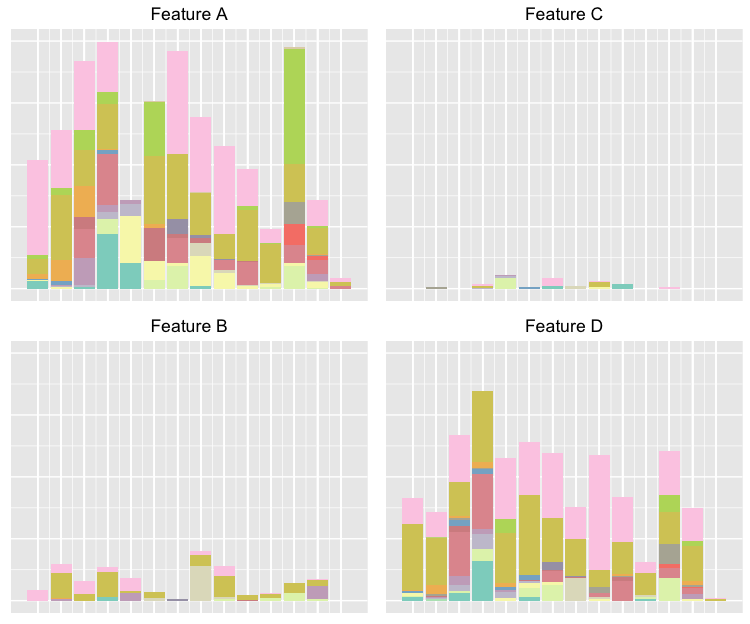
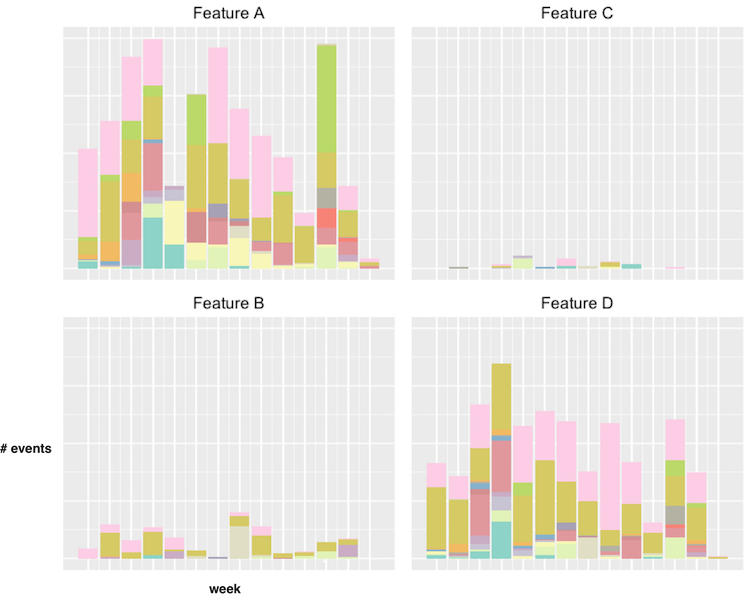
commit message

diff --git a/index.html b/index.html
@@ -113,7 +113,7 @@
 	        	                <i class="fa fa-search-plus fa-3x"></i>
 	        	            </div>
 	        	        </div>
-	        	        <img src="/images/portfolio/feature-useage.png" class="img-responsive" alt="">
+	        	        <img src="/images/portfolio/test.png" class="img-responsive" alt="">
 	        	    </a>
 	        	</div>
          	
@@ -125,7 +125,7 @@
 	        	                <i class="fa fa-search-plus fa-3x"></i>
 	        	            </div>
 	        	        </div>
-	        	        <img src="/images/portfolio/feature-useage.png" class="img-responsive" alt="">
+	        	        <img src="/images/portfolio/wave1.png" class="img-responsive" alt="">
 	        	    </a>
 	        	</div>
          	
@@ -137,7 +137,7 @@
 	        	                <i class="fa fa-search-plus fa-3x"></i>
 	        	            </div>
 	        	        </div>
-	        	        <img src="/images/portfolio/header-bg.png" class="img-responsive" alt="">
+	        	        <img src="/images/portfolio/feature-usage-hero.png" class="img-responsive" alt="">
 	        	    </a>
 	        	</div>
          	
@@ -149,7 +149,7 @@
 	        	                <i class="fa fa-search-plus fa-3x"></i>
 	        	            </div>
 	        	        </div>
-	        	        <img src="/images/portfolio/feature-usage-hero.png" class="img-responsive" alt="">
+	        	        <img src="/images/portfolio/wave1.png" class="img-responsive" alt="">
 	        	    </a>
 	        	</div>
             
@@ -329,7 +329,7 @@
 			                    <div class="modal-body">
 			                        <h2>Rapid Recruiting</h2>
 			                        <hr class="star-primary">
-			                        <img src="/images/portfolio/feature-useage.png" class="img-responsive img-centered" alt="">
+			                        <img src="/images/portfolio/test.png" class="img-responsive img-centered" alt="">
 			                        <p></p>
 			                        <ul class="list-inline item-details">
 			                            <li>Client:
@@ -366,48 +366,9 @@
 			            <div class="row">
 			                <div class="col-lg-8 col-lg-offset-2">
 			                    <div class="modal-body">
-			                        <h2>test</h2>
-			                        <hr class="star-primary">
-			                        <img src="/images/portfolio/feature-useage.png" class="img-responsive img-centered" alt="">
-			                        <p></p>
-			                        <ul class="list-inline item-details">
-			                            <li>Client:
-			                                <strong><a href="https://www.wrap.co/"></a>
-			                                </strong>
-			                            </li>
-			                            <!-- 
-<li>Date:
-			                                <strong><a href="http://startbootstrap.com">2016-11-15 00:00:00-08:00</a>
-			                                </strong>
-			                            </li>
- -->
-			                            <li>Service:
-			                                <strong><a href="http://startbootstrap.com">quantitative UX research</a>
-			                                </strong>
-			                            </li>
-			                        </ul>
-			                        <button type="button" class="btn btn-default" data-dismiss="modal"><i class="fa fa-times"></i> Close</button>
-			                    </div>
-			                </div>
-			            </div>
-			        </div>
-			    </div>
-			</div>
-			<div class="portfolio-modal modal fade" id="portfolioModal3" tabindex="-1" role="dialog" aria-hidden="true">
-			    <div class="modal-content">
-			        <div class="close-modal" data-dismiss="modal">
-			            <div class="lr">
-			                <div class="rl">
-			                </div>
-			            </div>
-			        </div>
-			        <div class="container">
-			            <div class="row">
-			                <div class="col-lg-8 col-lg-offset-2">
-			                    <div class="modal-body">
 			                        <h2>Rapid recruiting for iterative studies</h2>
 			                        <hr class="star-primary">
-			                        <img src="/images/portfolio/header-bg.png" class="img-responsive img-centered" alt="">
+			                        <img src="/images/portfolio/wave1.png" class="img-responsive img-centered" alt="">
 			                        <p><p>What was the business problem? What was the approach? What were the results? What was the impact?</p>
 <h2>Rapid Recruiting for Iterative Studies</h2></p>
 			                        <ul class="list-inline item-details">
@@ -433,7 +394,7 @@
 			        </div>
 			    </div>
 			</div>
-			<div class="portfolio-modal modal fade" id="portfolioModal4" tabindex="-1" role="dialog" aria-hidden="true">
+			<div class="portfolio-modal modal fade" id="portfolioModal3" tabindex="-1" role="dialog" aria-hidden="true">
 			    <div class="modal-content">
 			        <div class="close-modal" data-dismiss="modal">
 			            <div class="lr">
@@ -451,6 +412,10 @@
 			                        <p><p>&nbsp;
 &nbsp;
 <div style="text-align:left"> </p>
+<h3>Summary</h3>
+<ul>
+<li><em>What was the business challenge?</em> - The product team was unable to make informed decisions quickly as to which features should be prioirtized for the roadmap and future iterations.</li>
+</ul>
 <h3>Problem</h3>
 <p>Product teams need to build products that are valuable to users. </p>
 <blockquote>
@@ -521,11 +486,11 @@ data <span class="o">&lt;-</span> GET<span class="p">(</span>getURL<span class="
 </pre></div>
 
 
+<p>&nbsp;</p>
 <h4><em>Visualize</em></h4>
-<p>The data was then visualized using <em>ggplot2</em>, and displayed in a dashboard. 
-<div style="text-align:center"> 
-<img alt="alt text" src="images/portfolio/feature-usage-3.png" />
-</div></p>
+<p>The data was then visualized using <em>ggplot2</em>, and displayed in a dashboard.</p>
+<p>&nbsp;</p>
+<p><img alt="alt text" src="images/portfolio/feature-usage-3.png" /></p>
 <p>Right away, you can see that <em>Feautes A</em> and <em>D</em> see quite a bit more usage than <em>Featues B</em> and <em>C</em>. Visualizations like this can bring a lot of insight to a product team. For example, Product Managers at Wrap Media no longer had to guess which features in the product were being used more than others. </p>
 <blockquote>
 <p><strong>Product acted on these insights to priortitize roadmap planning and product iterations.</strong></p>
@@ -544,6 +509,89 @@ data <span class="o">&lt;-</span> GET<span class="p">(</span>getURL<span class="
  -->
 			                            <li>Service:
 			                                <strong><a href="http://startbootstrap.com">quantitative UX research</a>
+			                                </strong>
+			                            </li>
+			                        </ul>
+			                        <button type="button" class="btn btn-default" data-dismiss="modal"><i class="fa fa-times"></i> Close</button>
+			                    </div>
+			                </div>
+			            </div>
+			        </div>
+			    </div>
+			</div>
+			<div class="portfolio-modal modal fade" id="portfolioModal4" tabindex="-1" role="dialog" aria-hidden="true">
+			    <div class="modal-content">
+			        <div class="close-modal" data-dismiss="modal">
+			            <div class="lr">
+			                <div class="rl">
+			                </div>
+			            </div>
+			        </div>
+			        <div class="container">
+			            <div class="row">
+			                <div class="col-lg-8 col-lg-offset-2">
+			                    <div class="modal-body">
+			                        <h2>Why do consumers bounce?</h2>
+			                        <hr class="star-primary">
+			                        <img src="/images/portfolio/wave1.png" class="img-responsive img-centered" alt="">
+			                        <p><p>&nbsp;
+&nbsp;
+<div style="text-align:left"> </p>
+<h3>Problem</h3>
+<p>The product team at my last startup didn't have the time nor budget to conduct large, all-encompassing user research. Rather, they needed focused insights to fuel weekly product decisions. The need for these kind of insights was evident: we often times spent way to long arguing about what users needed and whether they would use certain features, consistently going over the set meeting time.</p>
+<p>One particular topic was especially important: The high bounce rate of our consumer product, the <a href="www.example-wrap.com">Wrap Viewer</a>. We were tracking bounce rate through our analytics team, but didn't know why this could be the case. Several camps, supporting different hypothesis had formed as to why this could be. I set out to conduct qualitative studies to get to the root of the problem. </p>
+<p>--&gt;add outcome</p>
+<p>&nbsp;</p>
+<h3>Preparation</h3>
+<p>In my situation, the ingredients for focused, iterative studies that deliver clear and actioable insights at a rapid pace were as follows:</p>
+<ul>
+<li>
+<p><em>Focused problem</em> - to avoid boiling the ocean and drowning in analysis paralysis that lead to broad, too-general read-outs it was important to get together with the team and clearly define the problem and questions that we hoped to address with the studies.</p>
+</li>
+<li>
+<p><em>Clear hypotheses</em> - it turned out that the team already had some great guesses as to why users may be bouncing. I made sure to include them as hypotheses in our research plan to cover what people were dying to validate.</p>
+</li>
+<li>
+<p><em>Know what you don't know</em> - it was important to tell the team what could not easily be answered through user research sessions. This helped set expectations and opened up an opportunity for future, cross-disciplinary research.</p>
+</li>
+<li>
+<p><em>Plan synthesis ahead</em> - since the team needed to get answers fast, it was important for me to organize synthesis ahead of time. This allowed me to hit the ground running as soon as I had conducted my sessions.</p>
+</li>
+</ul>
+<p>It was Wednesday during our weekly product meeting that that I convinced my team that user insights can help make a decision. I had 1 week until next Wednesday to present my findings.</p>
+<h3>Action</h3>
+<h4>Thursday - Day 1</h4>
+<p>Day 1 was all about <em>focusing on the right problem</em> and <em>forming clear hypothesis</em>. On Wednesday afternoon I scrambled to set up meetings with the two stakeholders that were closest to the project. In individual 30 min 1-1 meetings, I collected their insights on the issue and gathered their hypotheses.  </p>
+<p>Armed with a fresh perspective, I spent some time Thursday afternoon writing the research proposal for review then next day.</p>
+<p>It looked like this:</p>
+<p>--</p>
+<p><strong>Background</strong><br />
+Bounce rate metrics for the Wrap viewer consistently show a high bounce rate around ~70%. The team has several hypotheses why this could be the case, some of which can be investigated via quick, iterative user studies. The goal is to have insights into bounce rate by Wed of next week that will help decide how much effort should be spent on re-desigining the Wrap Viewer.</p>
+<p><strong>Goals</strong><br />
+Form weighted hypotheses to reasons for bounce rate on which preliminary decisiosn can be made, and which can be validated in further studies.</p>
+<p><strong>Research Question</strong>  </p>
+<ul>
+<li>Why do users bounce after the Wrap Viewer is loaded?</li>
+</ul>
+<p><strong>Hypotheses</strong>  </p>
+<ul>
+<li>Users don't swipe into the Wrap - can be verified</li>
+<li>Users are not interested in content - cannot be verified</li>
+<li>Users abonden the wrap before it loads - can be verified</li>
+</ul></p>
+			                        <ul class="list-inline item-details">
+			                            <li>Client:
+			                                <strong><a href="https://www.wrap.co/">Wrap Media</a>
+			                                </strong>
+			                            </li>
+			                            <!-- 
+<li>Date:
+			                                <strong><a href="http://startbootstrap.com">2016-10-15 00:00:00-07:00</a>
+			                                </strong>
+			                            </li>
+ -->
+			                            <li>Service:
+			                                <strong><a href="http://startbootstrap.com">qualitative UX research</a>
 			                                </strong>
 			                            </li>
 			                        </ul>
